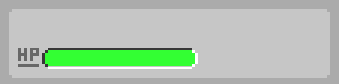
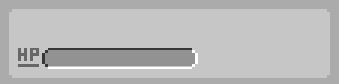
Battle does damage

Changed region(s): [[0.118, 0.5952, 0.59, 0.7857]]

diff --git a/css/battle.css b/css/battle.css
@@ -6,6 +6,7 @@
 }
 html {
     overflow-y: hidden;
+    overflow-x: hidden;
 }
 img#bg {
     width: 100%;
@@ -29,7 +30,7 @@ div#menu {
 }
 img#urpokemon{
     position: absolute;
-    bottom: -40px;
+    bottom: 0;
     width: 150px;
     left: 10%;
 }
@@ -60,13 +61,14 @@ p#pika, p#opp{
 }
 img#status {
     height: 100px;
-    width: inherit;
+    width: 300px;
     border-radius: 10px;
     opacity: 0.8;
 }
 div#oppstatus {
     position: absolute;
     top: 15%;
+    width: 400px;
     left: 1%;
 }
 #dialogbox{
@@ -101,6 +103,27 @@ div#oppstatus {
 div#thunder {
     display: none;
     position: absolute;
-    right: 10%;
-    bottom: 35%;
+    left: 65%;
+    bottom: 40%;
+}
+meter#opphealthbar {
+    background-color: #33FF33;
+    position: absolute;
+    z-index: 0;
+    left: 41px;
+    top: 60px;
+    width: 130px;
+    height: 19px;
+    border-radius: 4px;
+}
+meter#opphealthbar::-webkit-meter-optimum-value {
+    background: none;
+    background-color: #33FF33;
+    box-shadow: 0 5px 5px -5px #333 inset;
+    border-radius: 5px;
+}
+meter#opphealthbar::-webkit-meter-bar {
+    background: none; /* Required to get rid of the default background property */
+    background-color: whiteSmoke;
+    box-shadow: 0 5px 5px -5px #333 inset;
 }

diff --git a/js/battlemenu.js b/js/battlemenu.js
@@ -33,6 +33,10 @@ function CustomAlert5(){
 var battlemusic = document.getElementById("battlemusic")
 
 function fight() {
+    var damage = Math.floor((Math.random() * 20) + 10);
+    var health = document.getElementById("opphealthbar").value;
+    var output = health - damage;
+    document.getElementById("opphealthbar").value = output
     Alert.render('Pikachu used thunderbolt!');
     battlemusic.volume = 0.4;
     var fight = document.getElementById("thunderbolt");
@@ -40,8 +44,8 @@ function fight() {
     fight.play();
     thunder.attack();
     setTimeout('battlemusic.volume = 1', 3500);
-    setTimeout('thunder.done();', 3500);
-    setTimeout('window.close()', 3500);
+    setTimeout('thunder.done();', 3501);
+    setTimeout('Alert.ok()', 3500);
 }
 function pokeball() {
     battlemusic.volume = 0.4;

diff --git a/battle.php b/battle.php
@@ -119,6 +119,14 @@ $opp95= ucfirst($opp94);
 $opplast = new \PokemonAPI\Pokemon($opp95);
 $pokemonname = $opplast->getName();
 $pokemonhp = $opplast->getHp();
+$pokemonhpmax = $pokemonhp;
+$pokemonhp75 = $pokemonhpmax * 3 / 4;
+$pokemonhp85 = $pokemonhpmax * 17 / 20;
+$pokemonhp25 = $pokemonhpmax * 1 / 4;
+
+$pikachu = new \PokemonAPI\Pokemon(25);
+$pikachuhp = $pikachu->getHp();
+$pikachuname = $pikachu->getName();
 
 if ($pokemonname == ""){
     $pokemonname = "A fatal error";
@@ -151,6 +159,7 @@ else {
     echo "A Fatal Error has occurred";
     die();
 }
+
 ?>
 
 <!DOCTYPE html>
@@ -192,18 +201,19 @@ else {
 <audio autoplay id="battlemusic">
     <source src="music/Pokemon%20Stadium%20-%20Gym%20Leader%20Battle.mp3" type="audio/mpeg">
 </audio>
-<script src="js/disable.js"></script>
+<!--<script src="js/disable.js"></script>-->
 <script src="js/battlemenu.js"></script>
 <img id="bg" src="<?php echo $field[rand(0, count($field) - 1)]; ?>">
 <img id="pokemon" class="animated slideInLeft" src="<?php echo $opp; ?>">
 <img id="urpokemon" class="animated slideInLeft" src="battle/pikachu-f.gif">
 <div id="status" class="animated fadeInRight">
     <img id="status" src="battle/your%20status.png">
-    <p id="pika">Pikachu</p>
+    <p id="pika"><?php echo $pikachuname ?> <br><br>&nbsp;&nbsp;&nbsp;&nbsp;&nbsp;&nbsp;<?php echo $pikachuhp; ?></p>
 </div>
 <div id="oppstatus" class="animated fadeInLeft">
     <img id="status" src="battle/oppenent%20status.png">
-    <p id="opp"><?php echo $pokemonname ?><br><br>&nbsp;&nbsp;&nbsp;&nbsp;&nbsp;&nbsp;&nbsp;&nbsp;&nbsp;&nbsp;&nbsp;<?php echo $pokemonhp; ?></p>
+    <meter id="opphealthbar" value="<?php echo $pokemonhpmax; ?>" low="<?php echo $pokemonhp25; ?>" optimum="<?php echo $pokemonhp85; ?>" high="<?php echo $pokemonhp75; ?>" max="<?php echo $pokemonhpmax; ?>"></meter><br>
+    <p id="opp"><?php echo $pokemonname ?> <br><br>&nbsp;&nbsp;&nbsp;&nbsp;&nbsp;&nbsp;<?php echo $pokemonhpmax; ?></p>
 </div>
 <div id="menu" class="animated fadeInRight">
     <div>
